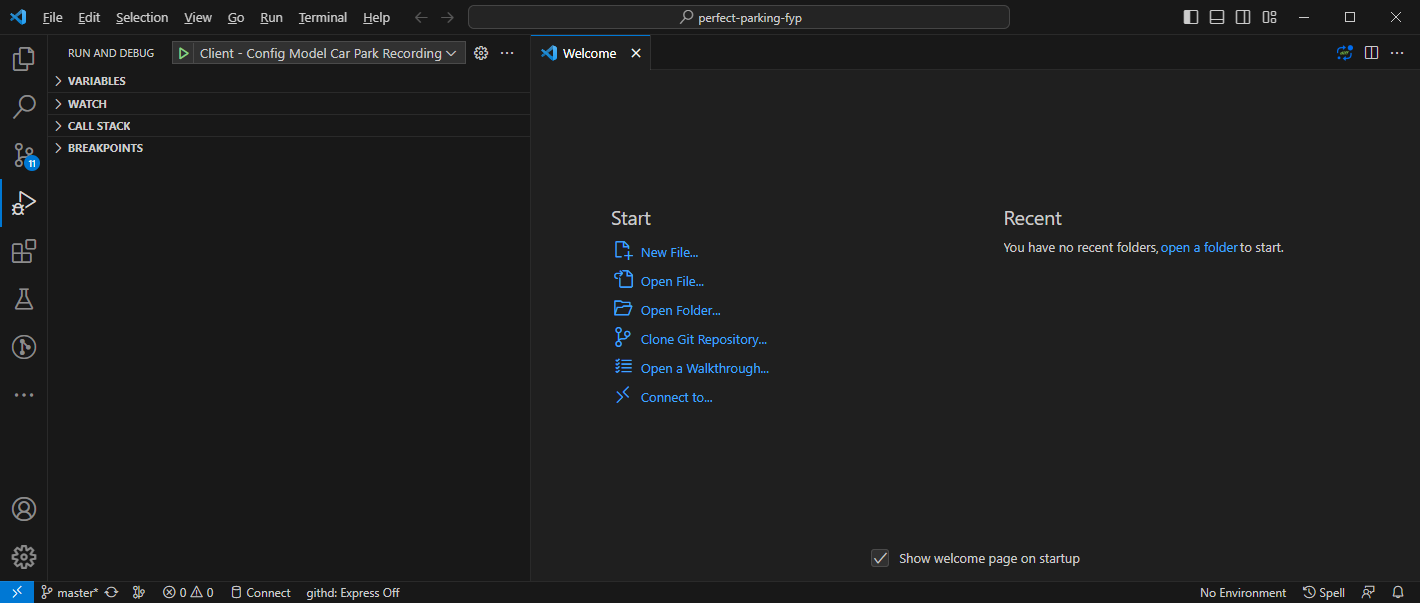
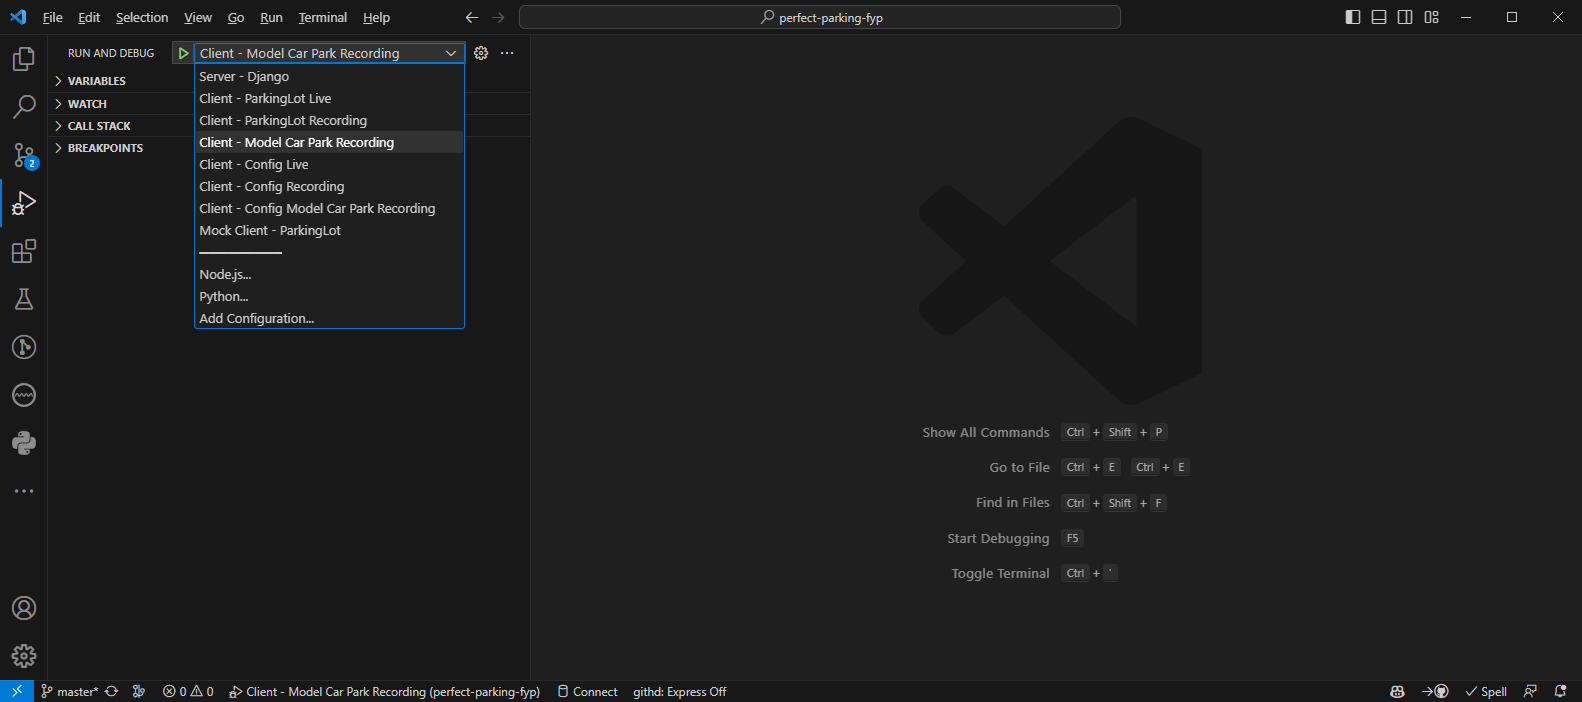
readme

diff --git a/readme.md b/readme.md
@@ -1,5 +1,5 @@
 
-# [Perfect Parking](https://github.com/Rhys-LIT/perfect-parking-fyp/)
+# [Perfect Parking](https://github.com/rhys-lit/perfect-parking-fyp/)
 
 Perfect Parking aims to create a parking system that will replace outdated systems and help stop the widespread problem that is parking in our cities. The goal of this project is to improve the effectiveness of finding parking spaces and to also relieve the stress of the users looking for parking by implementing new and innovative features. This will be done by building a client-server API and website that will show the user exactly where the parking is. The server will be supported by parking monitor clients powered by OpenCV to detect if a parking spot has been filled or made empty. To read more, please see the [thesis](./docs/thesis.pdf).
 
@@ -20,17 +20,21 @@ Perfect Parking aims to create a parking system that will replace outdated syste
 - [GitHub Desktop](https://desktop.github.com/) - Simple collaboration from your desktop
 - [WinMerge](https://winmerge.org/) is an Open Source differencing and merging tool for Windows.
 
+### Mobile Apps for Camera Feeds
+
+- [DroidCam](https://www.dev47apps.com/) - Use your [Android](https://play.google.com/store/apps/details?id=com.dev47apps.droidcam) or [IPhone](https://apps.apple.com/ie/app/droidcam-webcam-obs-camera/id1510258102) as a webcam on your computer over WiFi or USB.
+
 ## Run Application
 
 Clone the repository
 
 ```bash
-git clone https://github.com/Rhys-LIT/perfect-parking-fyp.git
+git clone https://github.com/rhys-lit/perfect-parking-fyp.git
 ```
 
 There are three applications in this project: the website server, a client parking monitor and a mock client parking monitor.
 
-### Website Server
+### Run Website Server
 
 1. Install dependencies
     - With Pip (To fast execute, run on Windows [pip-install.bat](./pip-install.bat))
@@ -60,13 +64,13 @@ There are three applications in this project: the website server, a client parki
 
 Built-in user accounts are:
 
-| Username       | Password  | Role  | Note                             |
-|----------------|-----------|-------|----------------------------------|
-| admin          | admin     | admin | Built in admin account           |
-| admin1         | letmein   | admin | Built in admin account           |
-| parkingMonitor | Letmein1$ | user  | Account for parking monitor apps |
+| Username       | Password   | Role  | Note                             |
+|----------------|------------|-------|----------------------------------|
+| john           | John123456 | admin | Built in admin account           |
+| admin1         | letmein    | admin | Built in admin account           |
+| parkingMonitor | Letmein1$  | user  | Account for parking monitor apps |
 
-### Client Parking Monitor
+### Run the Client Parking Monitor
 
 For the client parking monitor to run, the server must be running.
 
@@ -84,14 +88,27 @@ For the client parking monitor to run, the server must be running.
         ```
 
 2. The server must be running
-3. Open VS Code and run the app by selecting the `Run and Debug` (`Ctrl + Shift + D`) tab and selecting `Client - ParkingLot` from the dropdown menu. Then click the green play button to run the app, or
+3. Open VS Code and run the app by selecting the `Run and Debug` (`Ctrl + Shift + D`) tab and select one of the client configurations e.g.,  `Client - Config Model Car Park Recording` from the dropdown menu. ![VS Code Run config](docs/images/readme/vs-code-run-config.png)
+Then click the green play button to run the app, or
     Open a terminal and run the following command:
 
     ```bash
-    python PerfectParkingClient/main.py '--data' 'PerfectParkingClient/data/coordinates_1.yml' '--video' 'PerfectParkingClient/videos/parking_lot_1.mp4' '--start-frame' '400'
+    python PerfectParkingClient/main.py '--image' 'PerfectParkingClient/images/live-sample-3.png' '--data' 'PerfectParkingClient/data/coordinates-live-sample.yml' '--video' 'PerfectParkingClient/videos/live-sample-3.mp4' '--start-frame' '400'
     ```
 
-4. You can stop the client by pressing `q` at any time.
+4. Follow the instructions in the Window Title Bar.
+
+#### Sample Live Client Run
+
+The live client configuration is used to get video from a phone app such as DroidCam. Note that the IP address of `192.168.188.106:4747` for Client Live configurations may need to be changed depending on your Network Configuration. This can be changed in the [launch.json](.vscode/launch.json) file. After running the app, the following steps will be shown in the Window Title Bar.
+
+1. Press `s` to select an image from the video feed to make your parking spaces on. Ideally, this should be an image of the car park with no cars in it.
+![Config Save Image](docs/images/readme/live-config-1-save-image.png)
+2. Mark the car parking spaces by clicking on the four corners of each parking space. Try not to include any white lines in the parking space.Press `q` when finished.
+![Config Make the parking spots](docs/images/readme/live-config-2-save-parking-spots.png)
+3. Step 3: Watch the video feed and see the parking spaces being detected. Press `q` to quit when you are finished.
+![live sample empty](docs/images/readme/live-sample-1-empty.png)
+![live sample with cars](docs/images/readme/live-sample-2-cars.png)
 
 ### Mock Client Parking Monitor
 
